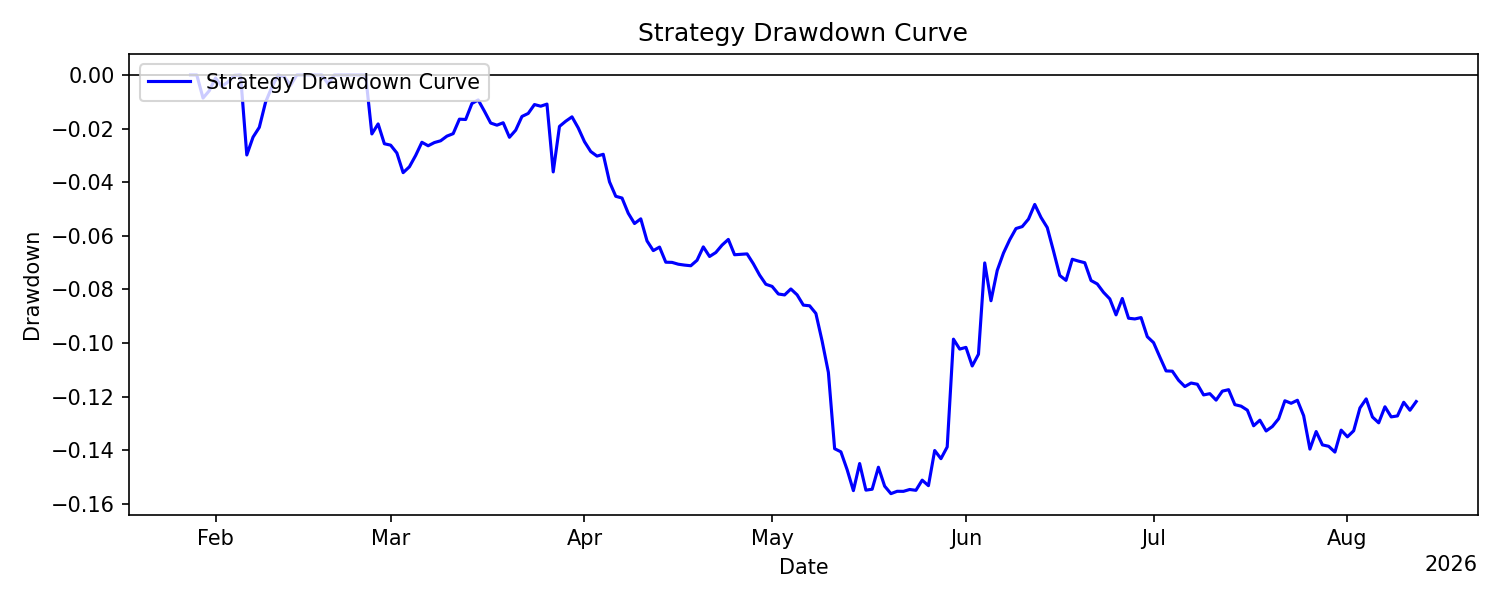
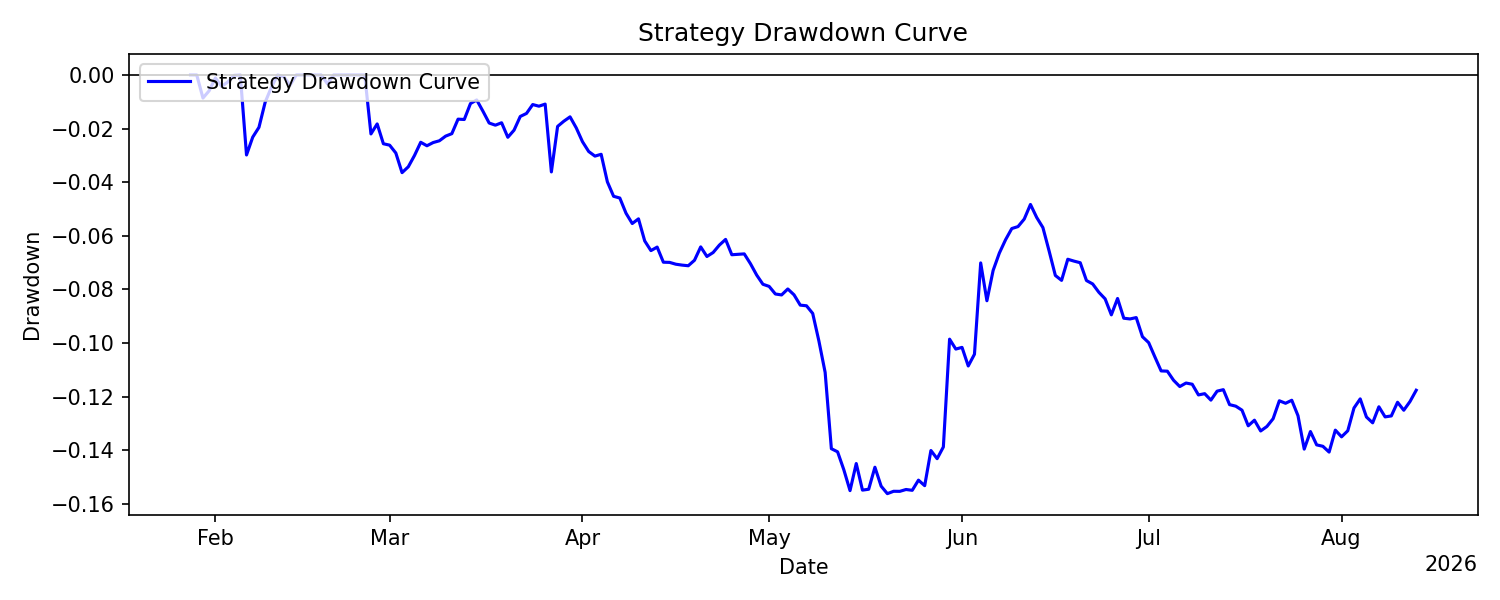
Update reports: 2026-08-13 00:02:44 UTC

diff --git a/README.md b/README.md
@@ -22,28 +22,28 @@ All results are live and reported net of transaction costs and slippage.
 - CSV: `metrics_strategy.csv`
 
 <!-- METRICS_START -->
-| metric                       |       values |
-|:-----------------------------|-------------:|
-| Number of Observations       | 197          |
-| Mean Daily Return            |  -0.00033384 |
-| Daily Volatility             |   0.00830045 |
-| Mean Annualized Return       |  -0.121852   |
-| Annualized Volatility        |   0.15858    |
-| Maximum Drawdown             |  -0.156146   |
-| Max Drawdown Duration (Days) | 168          |
-| Sharpe                       |  -0.768393   |
-| Sortino                      |  -1.06465    |
-| Calmar                       |  -0.78037    |
-| CAGR                         |  -0.125716   |
-| Skewness                     |   0.660254   |
-| Excess Kurtosis              |   8.7615     |
-| Win Rate                     |   0.472081   |
-| Profit Factor                |   0.881894   |
-| VaR 1%                       |  -0.0269917  |
-| CVaR 1%                      |  -0.030925   |
-| VaR 5%                       |  -0.0107358  |
-| CVaR 5%                      |  -0.0201626  |
-| Correlation with BTC         |   0.00820695 |
+| metric                       |        values |
+|:-----------------------------|--------------:|
+| Number of Observations       | 198           |
+| Mean Daily Return            |  -0.000307934 |
+| Daily Volatility             |   0.00828737  |
+| Mean Annualized Return       |  -0.112396    |
+| Annualized Volatility        |   0.15833     |
+| Maximum Drawdown             |  -0.156146    |
+| Max Drawdown Duration (Days) | 169           |
+| Sharpe                       |  -0.709884    |
+| Sortino                      |  -0.982037    |
+| Calmar                       |  -0.719814    |
+| CAGR                         |  -0.117373    |
+| Skewness                     |   0.651725    |
+| Excess Kurtosis              |   8.76666     |
+| Win Rate                     |   0.474747    |
+| Profit Factor                |   0.890506    |
+| VaR 1%                       |  -0.026962    |
+| CVaR 1%                      |  -0.030925    |
+| VaR 5%                       |  -0.0106986   |
+| CVaR 5%                      |  -0.0201626   |
+| Correlation with BTC         |   0.00775721  |
 <!-- METRICS_END -->
 
 ## Sharpe Statistics
@@ -55,14 +55,14 @@ All results are live and reported net of transaction costs and slippage.
 | metric                     |   values |
 |:---------------------------|---------:|
 | alpha                      |   0.05   |
-| t-statistic                |  -0.5645 |
-| p-value                    |   0.5731 |
-| Daily Sharpe Ratio         |  -0.0402 |
-| Annualized Sharpe Ratio    |  -0.7684 |
-| Sharpe Standard Error      |   1.3856 |
-| C.I. Lower Bound           |  -3.4841 |
-| C.I. Upper Bound           |   1.9473 |
-| Bootstrap C.I. Lower Bound |  -3.7187 |
-| Bootstrap C.I. Upper Bound |   2.6045 |
+| t-statistic                |  -0.5228 |
+| p-value                    |   0.6017 |
+| Daily Sharpe Ratio         |  -0.0372 |
+| Annualized Sharpe Ratio    |  -0.7099 |
+| Sharpe Standard Error      |   1.3801 |
+| C.I. Lower Bound           |  -3.4147 |
+| C.I. Upper Bound           |   1.995  |
+| Bootstrap C.I. Lower Bound |  -3.7801 |
+| Bootstrap C.I. Upper Bound |   2.6003 |
 <!-- SHARPE_END -->
 
